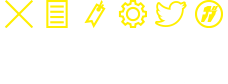
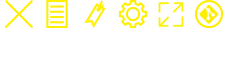
按钮响应样式

Changed region(s): [[0.6754, 0.0, 0.8289, 0.3333], [0.8596, 0.0476, 0.9825, 0.2857]]

diff --git a/style.css b/style.css
@@ -44,31 +44,6 @@ body {
   float: left;
 }
 
-.menu-field {
-  position: relative;
-  display: inline-block;
-  height: 100%;
-  width: 40px;
-  margin: 0 20px 0 0;
-}
-
-#menu-bar .menu-field button {
-	font-size: 20px;
-	position: absolute;
-	width: 38px;
-	height: 28px;
-	padding: 0;
-	top: 50%;
-	left: 50%;
-	margin-top: -14px;
-	margin-left: -19px;
-	background: 0 0;
-	border-style: none;
-	background-image: url(image/icons.png);
-	opacity: .9;
-	overflow: visible;
-}
-
 .separator:after {
   border: 1px outset gray;
   content: "";
@@ -109,6 +84,32 @@ body {
   height: 100%;
 }
 
+.menu-field {
+  position: relative;
+  display: inline-block;
+  height: 100%;
+  width: 40px;
+  margin: 0 20px 0 0;
+  z-index: 1000;
+}
+
+#menu-bar .menu-field button {
+	font-size: 20px;
+	position: absolute;
+	width: 38px;
+	height: 28px;
+	padding: 0;
+	top: 50%;
+	left: 50%;
+	margin-top: -14px;
+	margin-left: -19px;
+	background: 0 0;
+	border-style: none;
+	background-image: url(image/icons.png);
+	opacity: .9;
+	overflow: visible;
+}
+
 #submenu {
   display: inline-block;
 }
@@ -135,4 +136,12 @@ body {
 
 #menu-bar .menu-field #goto-homepage {
   background-position: -190px -28px;
+}
+
+#menu-bar .menu-field button:hover {
+  background-position-y: -56px !important;
+}
+
+#menu-bar .menu-field button:active {
+  background-position-y: 0 !important;
 }

diff --git a/index.html b/index.html
@@ -22,7 +22,7 @@
 
           <div id="submenu">
             <div class="menu-field">
-              <button id="toggle-toc" title="关闭阅览"></button>
+              <button id="toggle-toc" title="目录"></button>
             </div>
             <div class="menu-field">
               <button id="toggle-bookmark" title="书签"></button>
